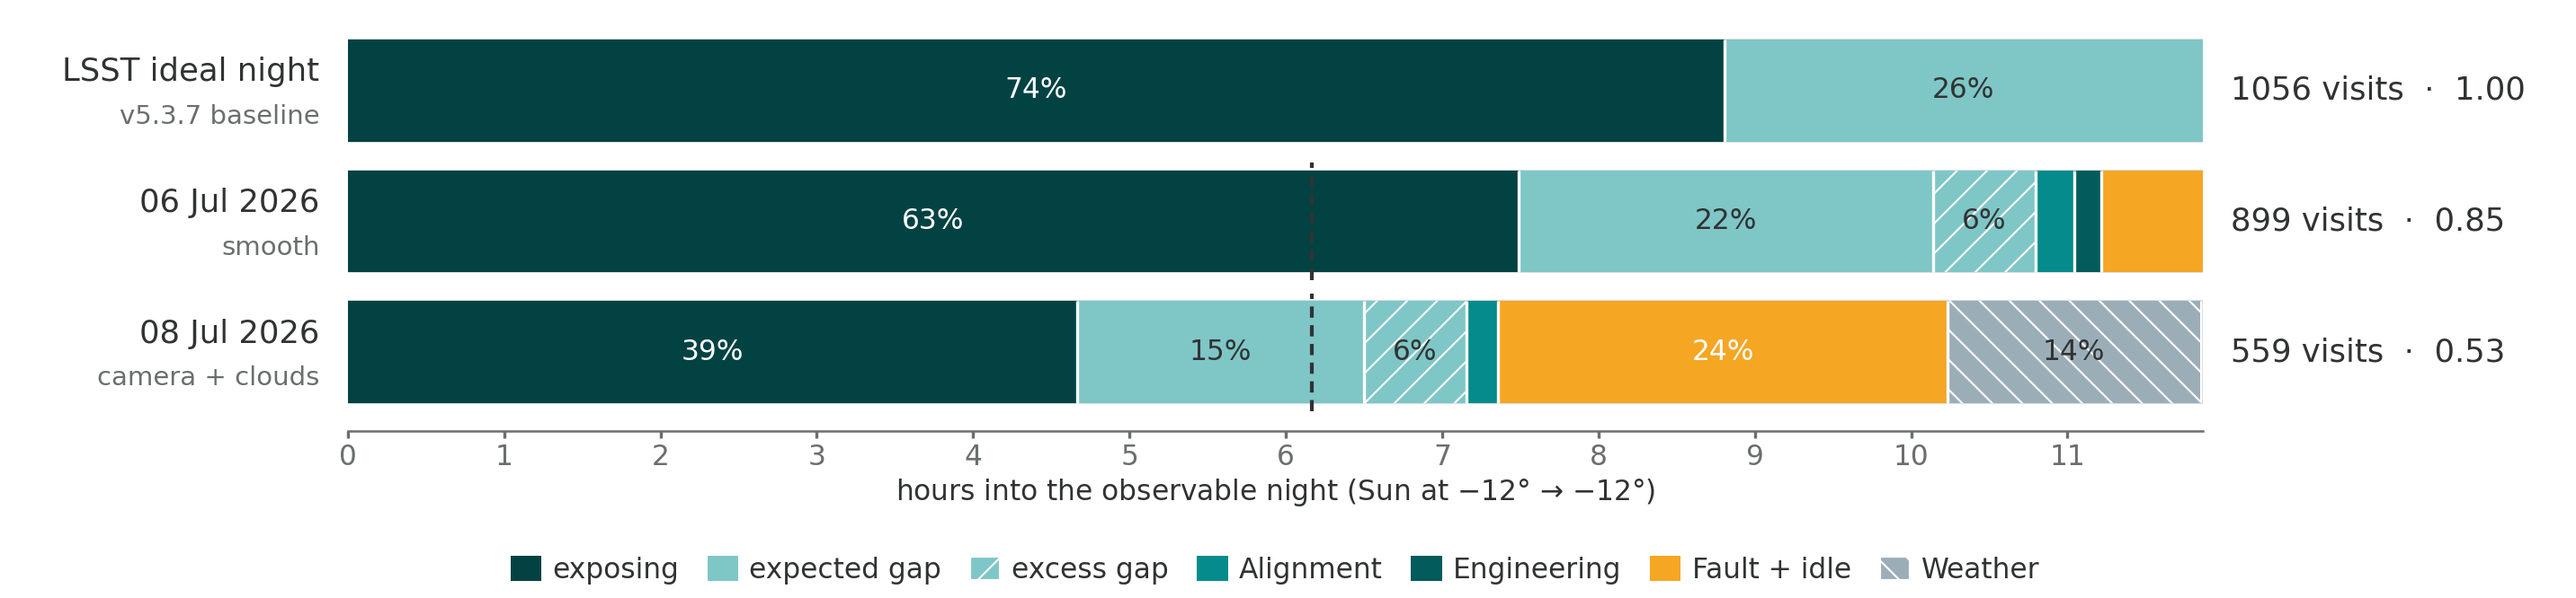
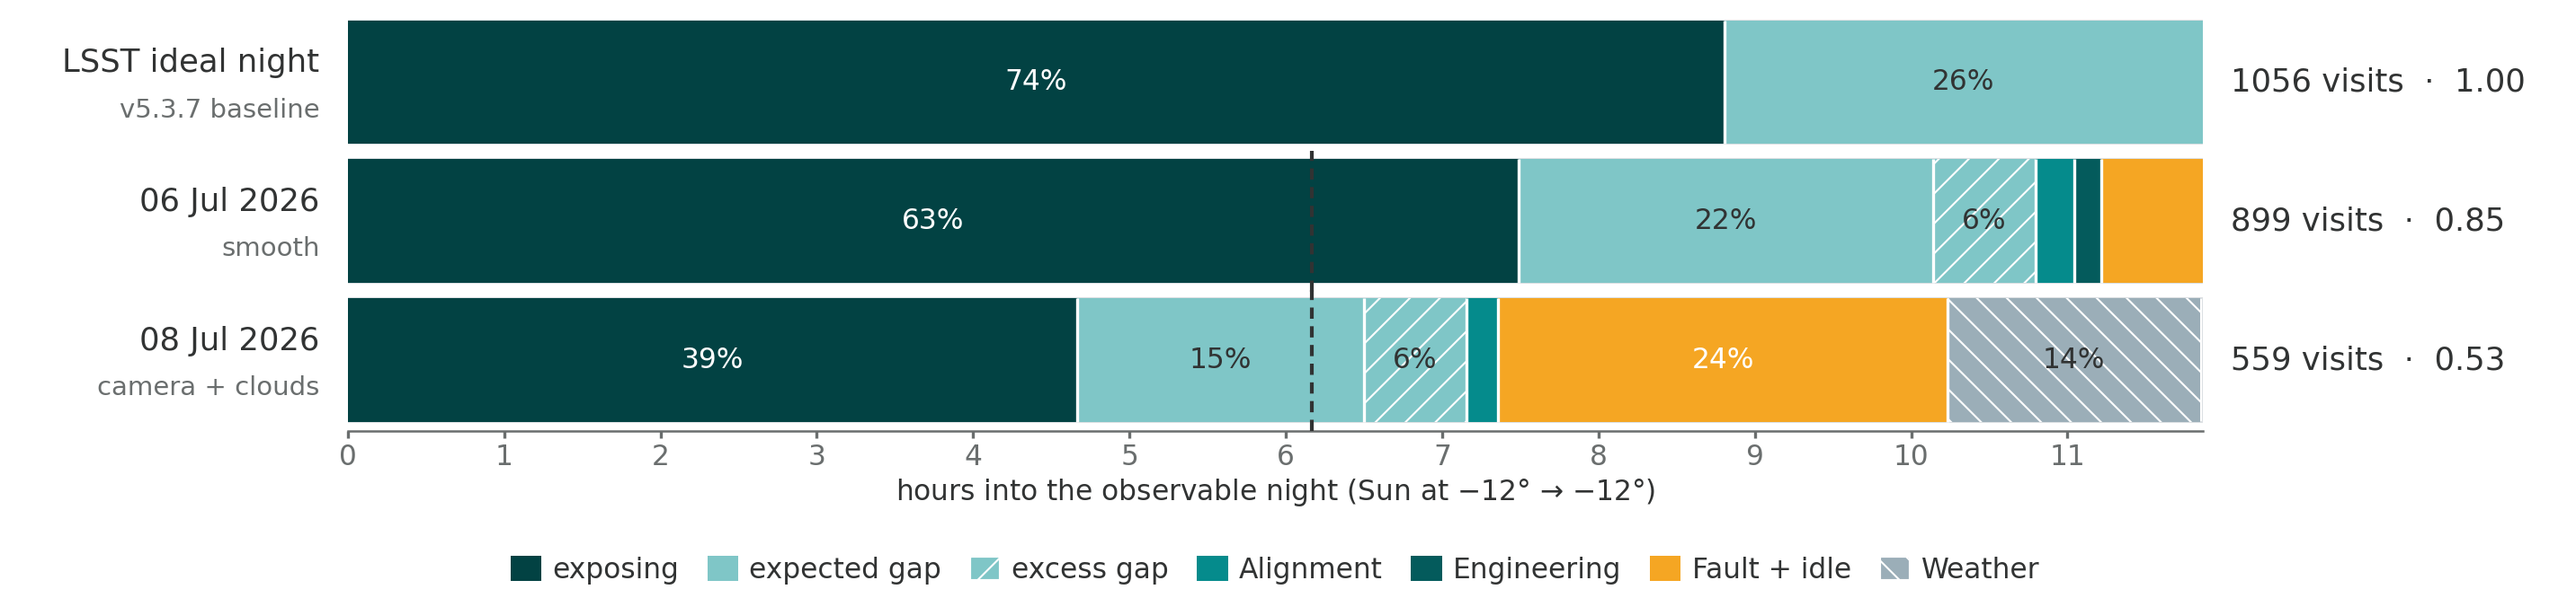
night_budget: tighter bar spacing, and define the two gap terms in the README
Bruno, 2026-11-02: halve the distance between bars and let them grow into it;
explain expected gap vs excess gap in the README.

Bar pitch stays 1.0 and BAR_H goes 0.78 -> 0.89, so the gap between bars is
0.11 rather than 0.22 and the bars take up the difference. The y limits now
derive from BAR_H instead of being hard-coded, so a future thickness change
keeps the air above and below right by itself. Frame is unchanged at
9.55 x 2.22 in.

README gains a subsection in §4 defining both terms, linked from §1. For each
survey visit add_model_slew_times simulates the slew that should have preceded
it (same pointing, rotator angle and filter change) through the FBS kinematic
model at 40 % TMA; with m the modelled duration and g the observed gap,
expected = min(m, g) and excess = g - min(m, g), which sum to the gap by
construction. Spells out that this is measured against a physical model and NOT
against OSS-REQ-0289 - a night can have little excess and still miss the
requirement, which is what 6 Jul does.

Two numbers from the per-gap data that reframe "room to improve": 160 of
6 Jul's 897 survey gaps had zero excess, and 46 % of the excess comes from the
worst 10 % of gaps (longest 218 s against a 9 s median). So the 0.66 h is a few
dozen bad gaps, not a uniform tax on every visit.

Generated with AI

diff --git a/night_budget/python/make_good_bad_night_figure.py b/night_budget/python/make_good_bad_night_figure.py
@@ -155,7 +155,11 @@ RC = {
     "ytick.color": C["ink2"],
 }
 
-BAR_H = 0.78  # bar thickness in y units; thick bars leave room for the % labels
+#: Bar thickness in y units. Bars sit at a pitch of 1.0, so the gap between them
+#: is ``1 - BAR_H``: 0.89 leaves 0.11, half the 0.22 it was (Bruno, 2026-11-02),
+#: and the bars take up the difference. Thick bars also leave room for the
+#: in-bar ``%`` labels.
+BAR_H = 0.89
 
 
 def load_budget(path: Path | None = None) -> pd.DataFrame:
@@ -370,7 +374,7 @@ def make_figure(budget: pd.DataFrame, good: int, bad: int, baseline: str) -> Pat
         ax.set_xlim(0, night_h)
         # tight y limits: half a bar of air above and below, no more. The figure
         # goes on a slide, so empty space costs on-screen size.
-        ax.set_ylim(-0.60, 2.60)
+        ax.set_ylim(-BAR_H / 2 - 0.06, 2 + BAR_H / 2 + 0.06)
         ax.set_yticks([])
         for side in ("left", "right", "top"):
             ax.spines[side].set_visible(False)

diff --git a/night_budget/README.md b/night_budget/README.md
@@ -19,6 +19,13 @@ good night, a real bad night — in the same block form as slide 3.
    visit of excess. The remaining shortfall is not the gaps — it is the hour at the start
    of the night and the transitions.
 
+The three Science blocks on each bar are **exposing** (shutter open), **expected gap** (the
+slew, readout and settle the kinematic model says each gap needed) and **excess gap** (what
+the night spent over that model). See [§4, what "expected gap" and "excess gap"
+mean](#what-expected-gap-and-excess-gap-mean) for the definition and the per-gap numbers —
+worth reading before presenting, since the split is measured against a *model*, not against
+the OSS-REQ-0289 requirement.
+
 ## 2. Definitions
 
 | Source | Value | Use on the figure |
@@ -88,11 +95,56 @@ The Science block is split four ways over survey visits only:
 | `gap_excess_h` | Σ (gap − expected) over survey gaps ≤ 10 min |
 | `gap_expected_current_h` | the same with `slew_model` — today's TMA limits |
 
-**Expected gap: ideal or current TMA?** The figure uses the **ideal** model
-(`slew_model_ideal`), because the bar is read against the simulated ideal night; the
-**current**-TMA number is reported in §5 so the two can be separated. The difference is
-small today: 9.7 s against 9.2 s per visit on 6 Jul, so the TMA limits applied that night
-were close to the 40 % model. Open for Bruno to overrule.
+### What "expected gap" and "excess gap" mean
+
+A **visit gap** is dead time between two survey visits: from the shutter closing on one to
+the shutter opening on the next (the OSS-REQ-0289 inter-visit interval). Across it the
+telescope has to read out the last exposure, slew to the next field, rotate, settle, and
+sometimes change filter. Some of that is unavoidable physics; the rest is not. The split
+separates the two.
+
+For each survey visit, `add_model_slew_times` **simulates the slew that should have
+preceded it** — same start and end pointing, same rotator angle, same filter change if one
+happened — through the FBS kinematic model at 40 % TMA, the one the baseline simulations
+assume. Call that modelled duration *m*, and the gap actually observed *g*. Then:
+
+- **expected gap** = `min(m, g)` — the part of the gap the model says was *necessary*. It
+  is capped at *g* so a gap that beat the model never contributes more than it took.
+- **excess gap** = `g − min(m, g)` — what the night spent *over* the model. Zero when the
+  gap matched or beat the model, positive otherwise.
+
+The two therefore sum to the whole gap by construction, and the split is a comparison
+against a physical model, **not** against a requirement. A night can have small excess and
+still miss OSS-REQ-0289, which is exactly what 6 Jul does.
+
+Why this is the useful cut for the slide: it answers "could this night have gone faster with
+the telescope we have?" separately from "is the telescope as fast as the survey needs?".
+Excess gap is the part operations can recover; expected gap can only be reduced by making
+the hardware or the scheduler faster.
+
+On 6 Jul, over the night's 897 survey gaps:
+
+| | median | mean | total |
+|---|---|---|---|
+| actual gap *g* | 9.2 s | 12.3 s | 3.07 h |
+| modelled slew *m* | 7.3 s | 9.9 s | — |
+| **expected** = min(*m*, *g*) | 7.2 s | 9.7 s | 2.41 h |
+| **excess** = *g* − expected | 1.4 s | 2.6 s | 0.66 h |
+
+Two things that table hides. **160 of the 897 gaps had zero excess** — they matched or beat
+the model outright. And the excess is not spread evenly: **46 % of it comes from the worst
+10 % of gaps** (the longest is 218 s against a 9 s median). So "0.66 h of excess" is mostly
+a few dozen bad gaps, not a uniform tax on every visit — which is why the figure also
+reports the count of gaps over twice the model (46 on 6 Jul).
+
+**Which model — ideal or current TMA?** `add_model_slew_times` returns both: `slew_model`
+uses the TMA limits the EFD says were actually applied that night, `slew_model_ideal` the
+40 % TMA model the simulations assume. The figure and `gap_expected_h` use the **ideal**
+one, because each bar is read against the simulated ideal night; `gap_expected_current_h`
+carries the current-TMA version so "the TMA is slower than the sims assume" can be
+separated from "everything else". The difference is small today — 9.7 s against 9.2 s per
+visit on 6 Jul — so the limits applied that night were close to the 40 % model. Open for
+Bruno to overrule.
 
 Pitfalls handled: gaps reset at each `day_obs`; ConsDB `obs_*_mjd` are TAI, converted to
 UTC (−37 s); the first gap of the night and the first gap after a non-survey visit are
@@ -183,8 +235,10 @@ here is a point on screen**. Every type size is therefore a real slide point and
 the 7–8 pt floor: bar labels 8.5, the `N visits · ratio` labels 8.5, ticks and x label and
 legend 7.5, in-bar `%` labels 7.5. Line weights came down to match (axis 0.6, separators
 0.8, hatch 0.5). There is no title — the slide carries one, and in a frame this short every
-line of height counts. `BAR_H = 0.78` with y limits just beyond the outer bars, and the
-margins hold only what must live outside the axes.
+line of height counts. `BAR_H = 0.89` at a bar pitch of 1.0, so the gap between bars is 0.11 —
+half what it was, with the bars taking up the difference (Bruno, 2026-11-02). The y limits
+follow `BAR_H` rather than being fixed, so changing the thickness keeps the air above and
+below correct, and the margins hold only what must live outside the axes.
 
 Because the type is pinned to the slide box, **changing `FIG_W`/`FIG_H` alone will not
 rescale the figure sensibly** — the point sizes would no longer match the placed size. If the
